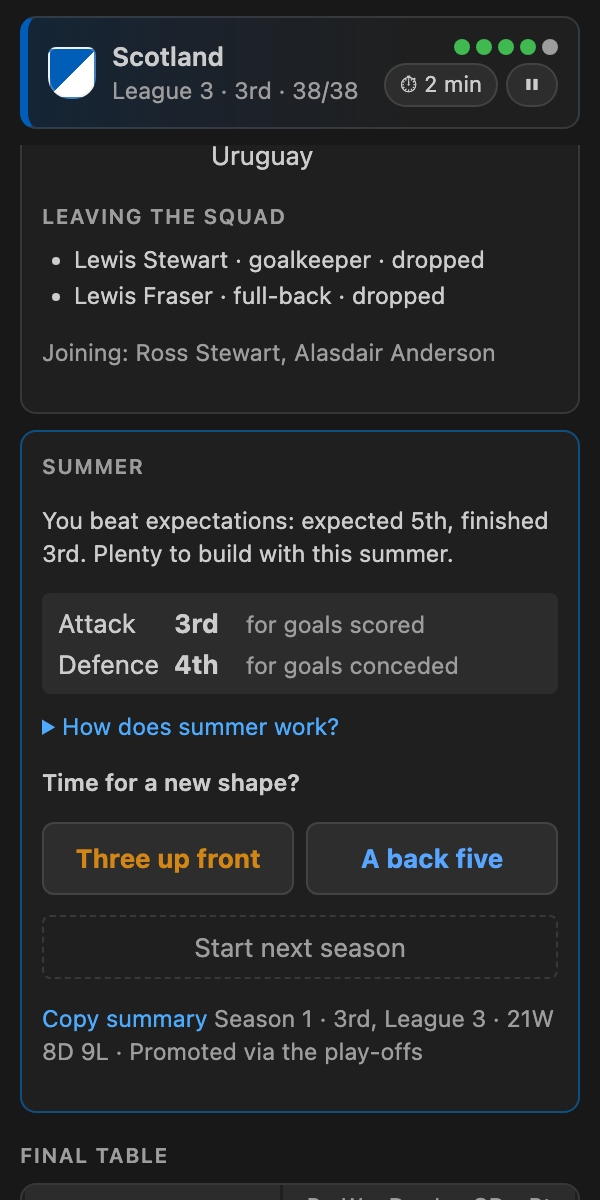
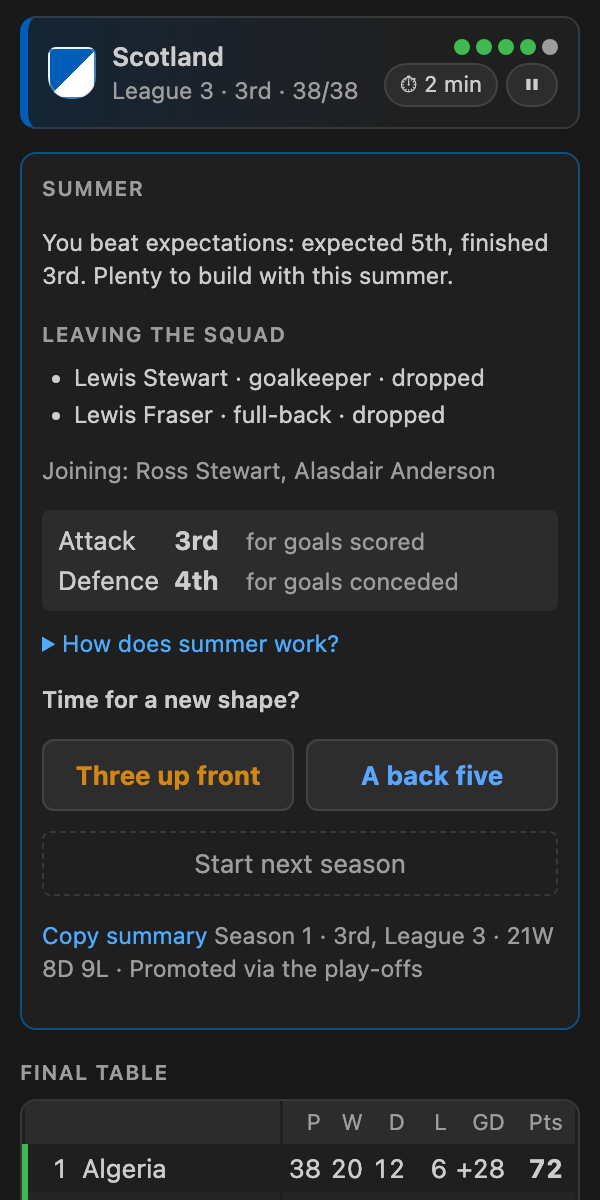
Put both summer clues with the question, first when the box is narrow
- Leaving the squad moves into the Summer card beside the goal ranks
- At 250px and below the Summer card comes before the season report,
  so the decision isn't several screens down in a small corner
- Darker answer colours in light themes (the chart orange was hard to
  read on white); the preview's --light mode sets VS Code's body class
- README screenshot updated

diff --git a/src/webview/main.ts b/src/webview/main.ts
@@ -474,17 +474,18 @@ function seasonEndHtml(e: SeasonEndView): string {
       ${r.topScorer ? `<dt>Top scorer</dt><dd>${esc(r.topScorer)}</dd>` : ''}
       ${r.cups.map((x) => `<dt>${esc(x.name)}</dt><dd>${esc(x.run)}</dd>`).join('')}
     </dl>
-    ${
-      e.squad.leaving.length
-        ? `<h3 class="sub">Leaving the squad</h3><ul class="plain small">${e.squad.leaving.map((x) => `<li>${esc(x)}</li>`).join('')}</ul>
-           ${e.squad.arriving.length ? `<p class="muted small">Joining: ${e.squad.arriving.map(esc).join(', ')}</p>` : ''}`
-        : ''
-    }
     </div>
 
     <div class="card accent-card">
     <h3 class="sub first">Summer</h3>
     <p class="small">${esc(verdict)}</p>
+    ${
+      // Both clues sit with the question: who's leaving, then where the season ranked.
+      e.squad.leaving.length
+        ? `<h3 class="sub">Leaving the squad</h3><ul class="plain small">${e.squad.leaving.map((x) => `<li>${esc(x)}</li>`).join('')}</ul>
+           ${e.squad.arriving.length ? `<p class="muted small">Joining: ${e.squad.arriving.map(esc).join(', ')}</p>` : ''}`
+        : ''
+    }
     <div class="clue">
       <div class="clue-row"><span>Attack</span><strong>${ordinal(r.scoredRank)}</strong><span class="muted small">for goals scored</span></div>
       <div class="clue-row"><span>Defence</span><strong>${ordinal(r.concededRank)}</strong><span class="muted small">for goals conceded</span></div>

diff --git a/media/sidebar.css b/media/sidebar.css
@@ -1088,6 +1088,15 @@ table.league {
   color: var(--vscode-charts-blue, #58a6ff);
 }
 
+/* Light themes: the chart colours are too pale on white, so darken the text. */
+body.vscode-light .focus.attack strong {
+  color: color-mix(in srgb, var(--vscode-charts-orange, #d18616) 65%, #000);
+}
+
+body.vscode-light .focus.defence strong {
+  color: color-mix(in srgb, var(--vscode-charts-blue, #1a85ff) 75%, #000);
+}
+
 .seg button .sub-label {
   display: block;
   margin-top: 1px;
@@ -1180,6 +1189,20 @@ table.league {
 }
 
 @media (max-width: 250px) {
+  /* Narrow: the summer decision comes straight after the headline, before the season report. */
+  .season-end {
+    display: flex;
+    flex-direction: column;
+  }
+
+  .season-end > .hero {
+    order: -2;
+  }
+
+  .season-end > .accent-card {
+    order: -1;
+  }
+
   /* Records: label above value, so long values keep the full width. */
   .records {
     grid-template-columns: 1fr;

diff --git a/tools/preview.ts b/tools/preview.ts
@@ -124,7 +124,7 @@ writeFileSync(
   `<!DOCTYPE html><html><head><meta charset="utf-8">
 <style>html { ${vars} --vscode-font-family: -apple-system, BlinkMacSystemFont, sans-serif; --vscode-font-size: 13px; background: ${theme.background}; } body { width: 280px; } .ft-card { animation: none !important; } .ft-layer { width: 284px; right: auto; }</style>
 <link rel="stylesheet" href="../../media/sidebar.css"></head>
-<body><div id="app"></div>
+<body${theme === light ? ' class="vscode-light"' : ''}><div id="app"></div>
 <script src="views.js"></script>
 <script>
   const screen = new URLSearchParams(location.search).get('screen') || 'match';

diff --git a/DESIGN.md b/DESIGN.md
@@ -420,7 +420,7 @@ Screen contents:
 1. Final table with promotion, play-offs and relegation
 2. **Season report:** goals scored and conceded against the league average, goals a game in your matches against the league's, best and worst runs, top scorer. No verdict: reading it is the player's job (lots of goals at both ends = leaning attacking).
 3. Decline: the overall rating drop only (e.g. 55 → 45), never the attack/defence split
-4. Leaving the squad (who, what they play, retired or dropped), then the clue (*Attack 10th for goals scored · Defence 4th for goals conceded*), then the summer question with two answers (§7). Picking one highlights it; a separate **Start next season** button below confirms it
+4. The Summer card holds both clues and the question: leaving the squad (who, what they play, retired or dropped), then the clue (*Attack 10th for goals scored · Defence 4th for goals conceded*), then the summer question with two answers (§7). Picking one highlights it; a separate **Start next season** button below confirms it
 
 ### Copy summary button
 
@@ -606,6 +606,7 @@ In rough priority order:
 | M8 visuals: match report newest-first, compact scoreboard, own league marked on table chips, legend shows only that table's zones (Champions in L1) | Latest event always in view; the box often lives in a small corner of the screen; clear which league is yours |
 | Badge colours picked at setup: 6 main × 6 second; the second row only shows colours that go with the main (from a pool of 9), so nothing is ever greyed out | Players own their club's look; a fixed palette keeps every badge readable, and the main colour (used for the header tint) excludes black and white so it shows on any theme |
 | Responsive box (CSS only): ≤250px wide drops table W/D/L, towns and running scores, speed button shows just ⏱; ≤200px wide shows only the header (club, badge, league, position, form, ⏱ and pause), except while a summer choice waits; short (≤420px / ≤260px) tightens spacing and puts the scoreboard on one line | Many players keep it in a small corner; at its narrowest it's a status card, widen it to manage |
+| Summer card first when the box is narrow (≤250px), with both clues inside it; light themes get darker answer colours | In a small corner the decision was several screens down, below the season report; the chart orange was hard to read on white |
 | Summer focus is picked, then confirmed with a separate "Start next season" button | Picking straight into the next season felt abrupt; players can change their mind and read the report first |
 | Live table shows ▲▼ for places moved since kick-off instead of a dot on every playing club | Every club plays at once, so dots said nothing; movement is what makes a live table interesting |
 | Derby markers removed (rival still on the Club tab) | Hardly noticed in play; one less thing on screen |
